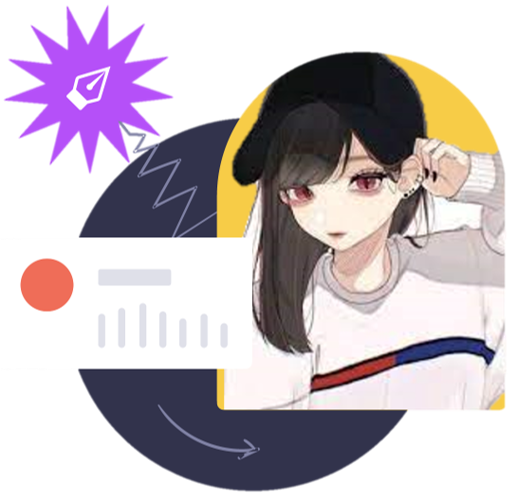
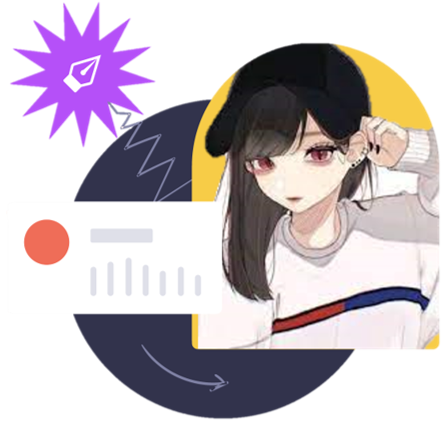
Created Assignment 1_box2 (W7&8)

diff --git a/week7/assignment/css/styles.css b/week7/assignment/css/styles.css
@@ -13,10 +13,13 @@ body {
     margin: 0px 70px;
     display: flex;
     align-items: center;
+    padding: 10px;
 }
 
 #logo h1 {
+    color: #000000;
     padding-left: 20px;
+    font-size: 200%;
 }
 
 #topnav {
@@ -54,4 +57,47 @@ body {
     text-decoration: underline;
 }
 
+.box2 {
+    display: flex;
+    justify-content: space-between;
+    align-items: center;
+    background-image: url("../images/1backgroundimg.jpg");
+    background-size: cover;
+}
+
+h1 {
+    color: #F2D1D1;
+    line-height: 50%;
+    font-size: 450%;
+}
+
+h3 {
+    color: #DAEAF1;
+    font-weight: 100;
+}
+
+.box2 #title {
+    width: 40%;
+    background-color: #00000046;
+    margin: 150px 50px;
+    padding: 20px;
+}
+
+button {
+    width: 30%;
+    padding: 20px;
+    border-radius: 10px;
+    background-color: #EF6D58;
+    border: none;
+    color: #FFFFFF;
+    font-weight: bold;
+}
+
+.box2 #title button {
+    margin: 50px 0px 20px 0px;
+} 
+
+#box-img1 {
+    margin-right: 160px;
+}
 
